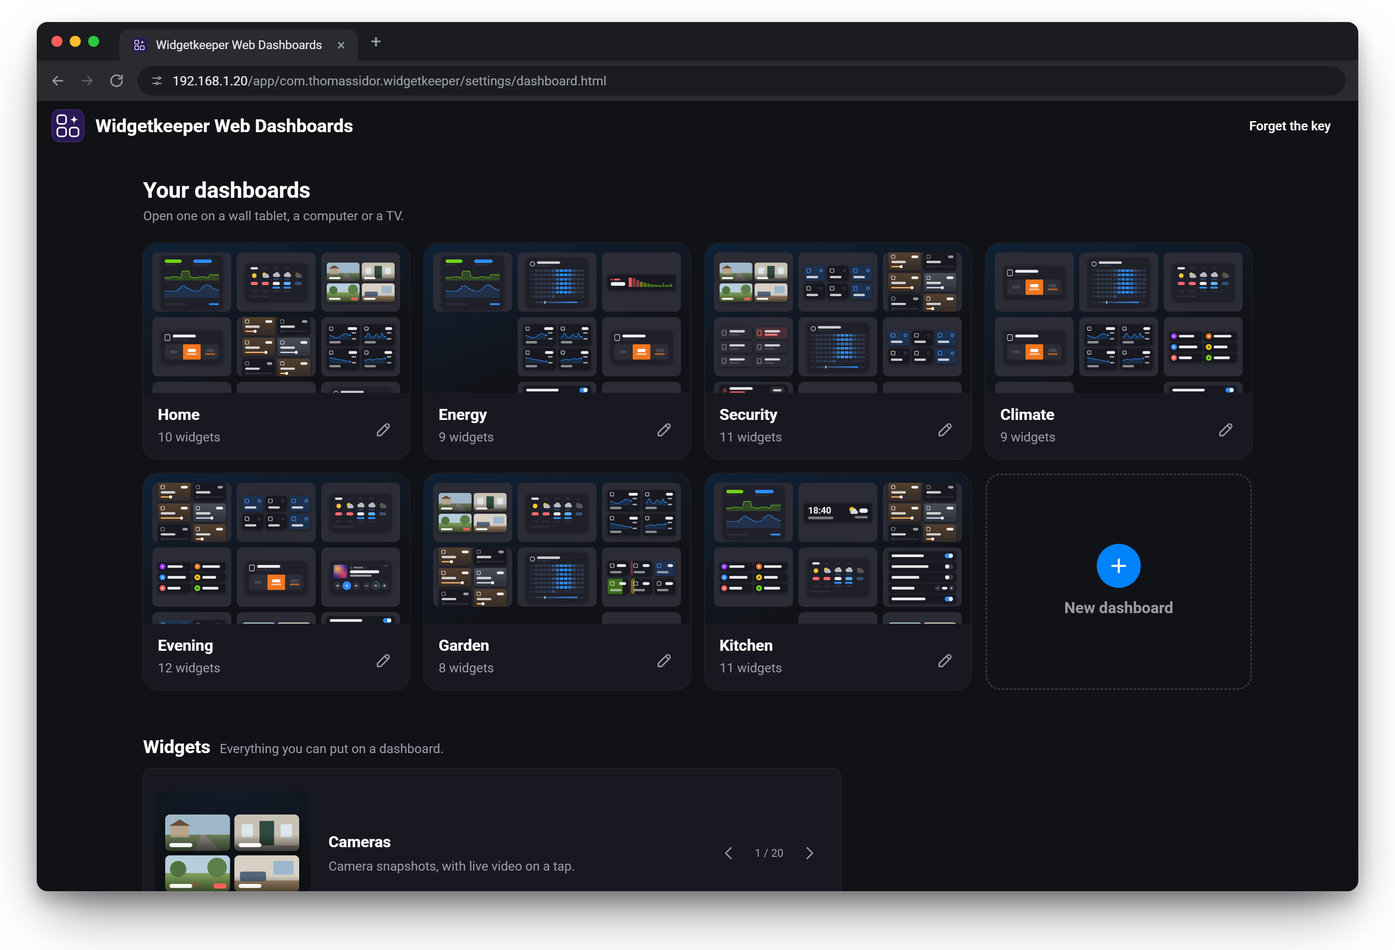
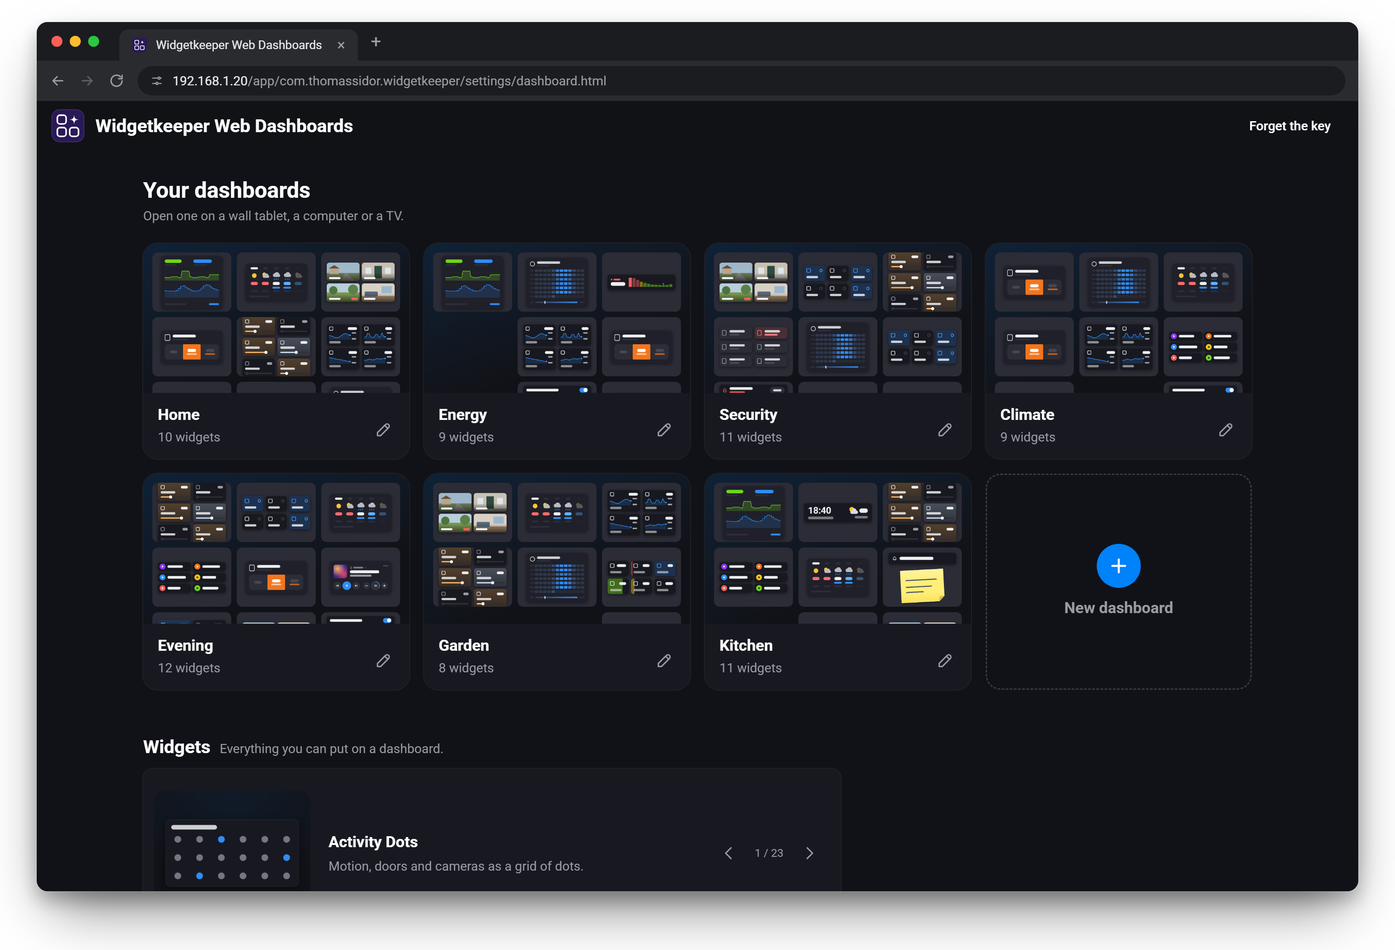
Media: Large layout with full-width album art (wk-046)
A new Layout setting: Compact (the card as before, the default) or Large,
which puts the album art square across the whole widget, with the track
at 24/32, artist and album at 17/24 and bigger buttons, pills and speaker
rows below it. Below 320 px of content the buttons go back to about the
compact sizes. Large cards in the media preview and two Large widgets on
the Media test dashboard.

Also re-rendered the web dashboard showcase images with the 1.0.0
widgets and names.

Changed region(s): [[0.0938, 0.8348, 0.2188, 0.9585], [0.25, 0.8657, 0.4062, 0.9275], [0.625, 0.5874, 0.6875, 0.6493]]

diff --git a/widgets/media/public/widget.css b/widgets/media/public/widget.css
@@ -234,6 +234,68 @@ button.mw-who.pressing { opacity: .6; }
 .mw-message { font-size: var(--mw-fs-small); line-height: var(--mw-lh-small); color: var(--mw-muted); }
 .mw-message.error { color: var(--mw-red); }
 
+/* Large (wk-046, a user's request for readability): the album art square at the full width above everything, then
+   the speaker, the track (24/32 bold), artist · album (17/24), and bigger buttons. The same parts as the compact
+   card; only the order (widget.js) and these sizes differ. */
+.mw-large {
+  --mw-fs-xlarge: var(--homey-font-size-xlarge, 24px); --mw-lh-xlarge: var(--homey-line-height-xlarge, 32px);
+  container: mw / inline-size;
+}
+.mw-large .mw-main { gap: var(--homey-su-3, 12px); }
+.mw-large .mw-art { width: 100%; height: auto; aspect-ratio: 1; }
+.mw-large .mw-art-glyph { width: 96px; height: 96px; }
+.mw-large .mw-now { align-items: flex-start; }
+.mw-large .mw-who-icon, .mw-large .mw-chevron { width: 16px; height: 16px; }
+.mw-large .mw-name { font-size: var(--mw-fs-small); line-height: var(--mw-lh-small); }
+.mw-large button.mw-who { padding: 6px 6px 6px 0; margin: -6px 0 -2px; }
+.mw-large .mw-title { font-size: var(--mw-fs-xlarge); line-height: var(--mw-lh-xlarge); }
+.mw-large .mw-sub { font-size: var(--mw-fs-default); line-height: var(--mw-lh-default); }
+.mw-large .mw-progress { height: 4px; margin-top: 10px; }
+.mw-large .mw-progress-text { margin-top: 4px; font-size: var(--mw-fs-small); line-height: var(--mw-lh-small); }
+.mw-large .mw-btn.mw-more { width: 44px; height: 44px; margin: -10px -10px 0 -4px; }
+.mw-large .mw-more .mw-glyph { width: 24px; height: 24px; }
+.mw-large .mw-controls { gap: 6px; }
+.mw-large .mw-transport, .mw-large .mw-mute { width: 52px; height: 52px; }
+.mw-large .mw-transport .mw-glyph, .mw-large .mw-mute .mw-glyph { width: 24px; height: 24px; }
+.mw-large .mw-play { width: 56px; height: 56px; }
+.mw-large .mw-play .mw-glyph { width: 28px; height: 28px; }
+.mw-large .mw-small .mw-glyph { width: 22px; height: 22px; }
+.mw-large .mw-step { width: 44px; height: 44px; }
+.mw-large .mw-step .mw-glyph { width: 20px; height: 20px; }
+.mw-large .mw-bar { height: 44px; }
+.mw-large .mw-track { top: 18px; height: 8px; border-radius: 4px; }
+.mw-large .mw-knob { top: 13px; width: 18px; height: 18px; left: calc(var(--mw-x) * (100% - 18px)); }
+.mw-large.mw-volume-buttons .mw-controls { gap: var(--homey-su, 4px); }
+.mw-large.mw-volume-buttons .mw-transport:not(.mw-play) { width: 52px; height: 52px; }
+.mw-large.mw-volume-buttons .mw-step { width: 40px; height: 40px; }
+/* The overlay's pills and the speaker list, a size up too. */
+.mw-large .mw-chip { height: 44px; padding: 0 18px; border-radius: 22px; font-size: var(--mw-fs-default); line-height: var(--mw-lh-default); }
+.mw-large .mw-chip .mw-glyph { width: 20px; height: 20px; }
+.mw-large .mw-btn.mw-close { width: 44px; height: 44px; margin: -10px -10px 0 0; }
+.mw-large .mw-close .mw-glyph { width: 24px; height: 24px; }
+.mw-large .mw-speakers-head { height: 32px; margin-top: -8px; }
+.mw-large .mw-speakers-head .mw-close { margin: 0 -10px 0 0; }
+.mw-large .mw-speakers-title { font-size: var(--mw-fs-small); line-height: var(--mw-lh-small); }
+.mw-large .mw-spk { min-height: 48px; }
+.mw-large .mw-spk-icon, .mw-large .mw-spk-check { width: 20px; height: 20px; }
+.mw-large .mw-spk-name, .mw-large .mw-spk-empty { font-size: var(--mw-fs-default); line-height: var(--mw-lh-default); }
+.mw-large .mw-spk-sub { font-size: var(--mw-fs-small); line-height: var(--mw-lh-small); }
+.mw-large .mw-message { font-size: var(--mw-fs-default); line-height: var(--mw-lh-default); }
+/* A narrow widget (300 px: 268 of content): the buttons as the compact card's, so the row still fits. */
+@container mw (max-width: 319px) {
+  .mw-large .mw-controls { gap: var(--homey-su, 4px); }
+  .mw-large .mw-transport, .mw-large .mw-mute { width: 44px; height: 44px; }
+  .mw-large .mw-transport .mw-glyph, .mw-large .mw-mute .mw-glyph { width: 22px; height: 22px; }
+  .mw-large .mw-play { width: 48px; height: 48px; }
+  .mw-large .mw-play .mw-glyph { width: 24px; height: 24px; }
+  .mw-large .mw-small { width: 32px; }
+  .mw-large .mw-small .mw-glyph { width: 20px; height: 20px; }
+  .mw-large.mw-volume-buttons .mw-controls { gap: var(--homey-su, 4px); }
+  .mw-large.mw-volume-buttons .mw-transport:not(.mw-play) { width: 40px; height: 40px; }
+  .mw-large.mw-volume-buttons .mw-play, .mw-large.mw-volume-buttons .mw-mute { width: 44px; height: 44px; }
+  .mw-large.mw-volume-buttons .mw-step { width: 36px; height: 36px; }
+}
+
 @keyframes mw-shake {
   20%, 60% { transform: translateX(-4px); }
   40%, 80% { transform: translateX(4px); }

diff --git a/dev/media-preview.html b/dev/media-preview.html
@@ -30,6 +30,13 @@
   <div class="col"><span>358 px · dark · missing speaker</span><div class="card mw-frame homey-dark-mode" style="width:358px"><div id="w5"></div></div></div>
   <div class="col"><span>358 px · dark · nothing picked</span><div class="card mw-frame homey-dark-mode" style="width:358px"><div id="w6"></div></div></div>
 
+  <div class="col"><span>Large · 358 px · dark · playing</span><div class="card mw-frame homey-dark-mode" style="width:358px"><div id="L1"></div></div></div>
+  <div class="col"><span>Large · 358 px · light · paused, volume as buttons, shuffle</span><div class="card light" style="width:358px"><div id="L2"></div></div></div>
+  <div class="col"><span>Large · 300 px · dark · TV, muted, shuffle</span><div class="card mw-frame homey-dark-mode" style="width:300px"><div id="L3"></div></div></div>
+  <div class="col"><span>Large · 300 px · light · volume as buttons, long title</span><div class="card light" style="width:300px"><div id="L4"></div></div></div>
+  <div class="col"><span>Large · 358 px · dark · ⋯ open</span><div class="card mw-frame homey-dark-mode" style="width:358px"><div id="L5"></div></div></div>
+  <div class="col"><span>Large · 358 px · dark · speaker list open</span><div class="card mw-frame homey-dark-mode" style="width:358px"><div id="L6"></div></div></div>
+  <div class="col"><span>Large · 358 px · dark · no art, nothing playing</span><div class="card mw-frame homey-dark-mode" style="width:358px"><div id="L7"></div></div></div>
   <script>
     const SOURCES = [{ id: 'card:tv', name: 'TV', icon: 'tv' }, { id: 'card:line', name: 'Line-in', icon: 'plug' }, { id: 'flow:movie', name: 'Movie night' }];
     mountMockMedia(document.getElementById('w1'), mockSpeaker('Kitchen', 0), { buttons: SOURCES, canSwitch: true, t: devT });
@@ -44,6 +51,14 @@
     mountMockMedia(document.getElementById('w13'), mockSpeaker('Kitchen', 0), { buttons: SOURCES, canSwitch: true, showProgress: false, volumeLayout: 'buttons', t: devT });
     mountMockMedia(document.getElementById('w11'), mockSpeaker('Kitchen', 0), { buttons: SOURCES, canSwitch: true, t: devT }).setSpeakers(true);
     mountMockMedia(document.getElementById('w12'), mockSpeaker('Kitchen', 0), { canSwitch: true, volumeLayout: 'buttons', t: devT }).setSpeakers(true);
+    const LARGE = { layout: 'large', t: devT };
+    mountMockMedia(document.getElementById('L1'), mockSpeaker('Kitchen', 0), { ...LARGE, buttons: SOURCES, canSwitch: true });
+    mountMockMedia(document.getElementById('L2'), mockSpeaker('Living room', 1, { playing: false }), { ...LARGE, volumeLayout: 'buttons', showShuffle: true, buttons: SOURCES, canSwitch: true });
+    mountMockMedia(document.getElementById('L3'), mockSpeaker('TV', 2, { track: 'HDMI', muted: true, volume: 0.25 }), { ...LARGE, buttons: SOURCES, showShuffle: true, maxVolume: 0.4 });
+    mountMockMedia(document.getElementById('L4'), mockSpeaker('Bedroom', 1, { track: 'A very long track name that does not fit on one line' }), { ...LARGE, volumeLayout: 'buttons', canSwitch: true });
+    mountMockMedia(document.getElementById('L5'), mockSpeaker('Kitchen', 0), { ...LARGE, buttons: SOURCES }).setPanel(true);
+    mountMockMedia(document.getElementById('L6'), mockSpeaker('Kitchen', 0), { ...LARGE, canSwitch: true }).setSpeakers(true);
+    mountMockMedia(document.getElementById('L7'), mockSpeaker('Bathroom', 0, { track: null, art: false, playing: false }), LARGE);
     createMediaWidget(document.getElementById('w5'), { t: devT }).setState({ id: 'x', missing: true });
     const empty = createMediaWidget(document.getElementById('w6'), { t: devT });
     empty.setMessage(empty.t('selectDevice'));

diff --git a/widgets/media/public/widget.js b/widgets/media/public/widget.js
@@ -6,6 +6,8 @@
  * once and a burst is sent once, so it never overshoots, and `maxVolume` caps it. On TV or line-in the card says so
  * instead of greying out: mute and the volume are what matter there. With `canSwitch`, a tap on the speaker's name
  * (its device icon, the name and a ⌄) lists every speaker, and picking one switches the card to it.
+ * `layout: 'large'` puts the album art above everything at the full width, with bigger text and buttons below it
+ * (the same parts; only their order and the CSS differ).
  * Plain browser JS (served as-is).
  */
 (function () {
@@ -229,7 +231,7 @@
    *   onArt?: () => Promise<{type: string, data: string}>,
    *   onReport?: (text: string) => void, onHaptic?: () => void, onHeight?: (h: number) => void,
    *   buttons?: {id: string, name: string, icon?: string | null}[], volumeStep?: number, maxVolume?: number, showShuffle?: boolean,
-   *   volumeLayout?: 'line' | 'buttons', showProgress?: boolean, now?: () => number,
+   *   volumeLayout?: 'line' | 'buttons', layout?: 'compact' | 'large', showProgress?: boolean, now?: () => number,
    *   canSwitch?: boolean, onListSpeakers?: () => Promise<any[]>, onSwitch?: (id: string) => void }} opts
    */
   function createMediaWidget(root, opts = {}) {
@@ -268,12 +270,16 @@
 
     root.classList.add('mw');
     root.classList.toggle('mw-volume-buttons', volumeButtons);
+    /** The album art at the full width above the rest (wk-046), instead of beside the track. */
+    const large = opts.layout === 'large';
+    root.classList.toggle('mw-large', large);
     const card = el('div', { class: 'mw-card' }, root);
     // The main view and the overlay share one grid cell, so the card is as tall as the taller of the two and
     // opening the overlay never changes the widget's height.
     const main = el('div', { class: 'mw-main' }, card);
+    const artBox = el('div', { class: 'mw-art' }, large ? main : null);
     const nowPlaying = el('div', { class: 'mw-now' }, main);
-    const artBox = el('div', { class: 'mw-art' }, nowPlaying);
+    if (!large) nowPlaying.appendChild(artBox);
     const artImg = el('div', { class: 'mw-art-img' }, artBox);
     let artGlyphName = null;
     const info = el('div', { class: 'mw-info' }, nowPlaying);

diff --git a/test/media-widget.test.ts b/test/media-widget.test.ts
@@ -399,3 +399,39 @@ describe('switching speaker', () => {
     expect(q('.mw-who .mw-who-icon').classList.contains('mw-mask')).toBe(true);
   });
 });
+
+describe('large layout', () => {
+  const buttons = [{ id: 'flow:f1', name: 'Movie time' }];
+
+  it('puts the album art above the rest, at the full width', () => {
+    const { root, q } = widget(speaker(), { layout: 'large' });
+    expect(root.classList.contains('mw-large')).toBe(true);
+    const main = q('.mw-main');
+    expect(q('.mw-art').parentElement).toBe(main);
+    expect(main.firstElementChild).toBe(q('.mw-art'));
+    expect(q('.mw-art').nextElementSibling).toBe(q('.mw-now'));
+  });
+
+  it('keeps the art beside the track in the compact card', () => {
+    const { root, q } = widget(speaker(), { layout: 'compact' });
+    expect(root.classList.contains('mw-large')).toBe(false);
+    expect(q('.mw-art').parentElement).toBe(q('.mw-now'));
+    expect(q('.mw-now').firstElementChild).toBe(q('.mw-art'));
+  });
+
+  it('switches speaker, mutes and opens the overlay as the compact card does', async () => {
+    const onSwitch = vi.fn();
+    const onListSpeakers = vi.fn(async () => [{ id: 'b', name: 'Bedroom', icon: null, caps: {} }]);
+    const { q, click, onSet } = widget(speaker(), { layout: 'large', buttons, canSwitch: true, onSwitch, onListSpeakers });
+    click('.mw-mute');
+    expect(onSet).toHaveBeenCalledWith('volume_mute', true);
+    click('.mw-more');
+    expect(q('.mw-card').classList.contains('panel-open')).toBe(true);
+    click('.mw-close');
+    expect(q('.mw-card').classList.contains('panel-open')).toBe(false);
+    click('.mw-who');
+    await vi.advanceTimersByTimeAsync(0);
+    document.querySelector<HTMLElement>('.mw-spk')!.dispatchEvent(new win.MouseEvent('click', { bubbles: true }));
+    expect(onSwitch).toHaveBeenCalledWith('b');
+  });
+});

diff --git a/widgets/media/public/mount.js b/widgets/media/public/mount.js
@@ -55,6 +55,7 @@ window.mountMediaWidget = function (Homey, { root, frame }) {
       load();
     },
     volumeLayout: settings.volumeLayout === 'buttons' ? 'buttons' : 'line',
+    layout: settings.layout === 'large' ? 'large' : 'compact',
     onSet: (capabilityId, value) => Homey.api('POST', '/set', {
       deviceId, capabilityId, value, maxVolume: maxVolume > 0 && maxVolume < 100 ? maxVolume / 100 : 1,
     }),

diff --git a/CLAUDE.md b/CLAUDE.md
@@ -366,6 +366,7 @@ How this project uses it:
   - Buttons: a switched-to speaker's `/state` is asked with `cards=1` and carries `cards` (its argument-free cards' `<card>` part, `cardSuffix()`). A card button whose `<card>` isn't there is hidden; `runButton()` matches cards by `<card>`, so `card:homey:device:<default>:cloud_play_home_theater` runs the switched-to speaker's own. Flows always show.
 - Device icon: `fetchDeviceIcon()` (sent as `icon`), drawn as a mask (`.mw-mask`, `--mw-icon`) in the name row and, while there's no album art (and no TV/line-in), in the art box; without one, a drawn speaker glyph (`device`).
 - Layout (condensed on the user's request, 2026-10-09: no volume percentage, the buttons in an overlay): the 64 px album art (or a note, TV or plug glyph), the speaker's name (12/16), the track (17 bold) and artist · album (14 muted), a progress line with `1:14 / 3:33` (12/16; Homey's `speaker_position`/`speaker_duration` are seconds, counted on locally while playing with a 1 s timer that stops while hidden; `opts.now` fixes the clock for the screenshot), and a 36 px `⋯` in the top right corner. Then previous, play (Homey's blue) and next, and mute on the right (red while muted), all 44 px; shuffle and repeat (36 px, muted, blue when on, a `1` badge for one track) only with `showShuffle`. Then − bar +.
+- `layout` (dropdown "Layout" after the speaker, `compact` by default, a missing value is compact; wk-046, a user's request for readability): `large` (`.mw-large` on the root) moves the art box out of `.mw-now` to the top of `.mw-main`, a square at the full width (`aspect-ratio: 1`, `cover`; a 96 px glyph without art), with the speaker 14/20, the track 24/32 bold, artist · album 17/24, progress time 14/20, 52 px previous/next/mute and a 56 px play (6 px gaps, so shuffle and repeat fit 326 px of content), a 44 px volume line, 44 px pills and 48 px speaker rows. Below 320 px of content (`@container mw`) the buttons go back to about the compact sizes with 4 px gaps. The same elements and logic; only the order and `widget.css`'s `.mw-large` block differ. `dev/media-preview.html` has Large cards at the end.
 - `showProgress` (checkbox "Show progress bar and time", on by default; `index.html` treats a missing value as on): off hides the progress line and its time (and stops the 1 s timer), so the now-playing row is only as tall as the 64 px art.
 - `volumeLayout` (dropdown "Volume", `line` by default; a missing value is line): `buttons` drops the volume line and puts − mute + at the right of the transport row (`.mw-volume-buttons`: 4 px gaps, 40 px previous/next, 36 px −/+, so it fits 268 px of content), with the level (to `maxVolume`) as a conic-gradient ring on mute (`.ring`, `--mw-x` on the root). Shuffle and repeat then move into the overlay as pills (no room in the row).
 - The overlay (`⋯`, shown only when it has something: buttons, or shuffle/repeat in `buttons` layout): `.mw-main` and `.mw-panel` share one grid cell in `.mw-card`, so the card is always as tall as the taller of the two and opening it never changes the widget's height (keep the pills 36 px so the panel stays shorter than the main view). `.panel-open` hides the main view and shows the pills (Variables' grey, content-sized, wrapping) with a ✕. A tap beside the pills, ✕, `⋯` again or 8 s without a touch close it; a button closes it 600 ms after its check mark, and a failure closes it before the message. `⋯` is tinted blue while a button in it is lit (the TV source). `setPanel(open)` is exposed for the previews.
@@ -432,7 +433,7 @@ How this project uses it:
 - On/off: the app setting `webDashboardsEnabled` (`WEB_ENABLED_SETTING`; off unless `true`), a checkbox on the app settings page (`Homey.set`), which shows the address only while it's on. Off, `/web/setup` answers only `{disabled: true, language, strings}` (the page says so: `web.off`) and every other `/web/…` route but `/web/address` throws `Web dashboards are turned off` (`assertEnabled()`); the saved dashboards stay. The page's `failed()` goes back to `start()` on that error.
 - Storage: the app setting `webDashboards`, `[{id, name, theme: auto|dark|light, columns: [[{id, type, title, settings, deviceIds}]]}]`. `normalize()` keeps known types, only the manifest's setting ids (each of its type, the default where missing or wrong; an autocomplete choice keeps its own fields, e.g. the thermostat's `capabilityId`/`value`, without `image`), one device for a singular devices setting; 1–6 columns, 60 widgets, 30 dashboards.
 - The front page's bar has the title `Widgetkeeper Web Dashboards` (`brand()`: `Widgetkeeper` + `web.title`, also the browser title off a dashboard) after the app icon (`.wd-logo`: the logomark of `assets/icon.svg`, inlined as `LOGO` in `currentColor`, white on the brand colour `#2A1958`, as Homey shows the app); `dashboard.html` has the same icon as an inline SVG favicon (a user's request).
-- The front page (`#/`, a user's request for something prettier): the dashboards as cards (`dashboardCard()`: a miniature of the columns, each widget as its preview cropped 4:3, at most 3 per column; the name and widget count; the whole card opens it, a pen opens the editor), a dashed New dashboard card, then the widget types one at a time in a small, quiet card (`widgetCarousel()`, max 760 px: a 170 × 136 preview cropped 5:4 on a faint blue glow, the name and `web.about.<type>`, a short description in all 13 languages (a test checks there's one per widget), ‹ › and `3 / 21`; a user found the earlier row of large previews on a blue glow took the attention from the dashboards, then that a 90 px one was too small). It cross-fades to the next every 6 s, but not while the mouse or focus is on it, for 15 s after a tap or an arrow, while the page is hidden, or with reduced motion. The descriptions also show in Add widget.
+- The front page (`#/`, a user's request for something prettier): the dashboards as cards (`dashboardCard()`: a miniature of the columns, each widget as its preview cropped 4:3, at most 3 per column; the name and widget count; the whole card opens it, a pen opens the editor), a dashed New dashboard card, then the widget types one at a time in a small, quiet card (`widgetCarousel()`, max 760 px: a 170 × 136 preview cropped 5:4 on a faint blue glow, the name and `web.about.<type>`, a short description in all 13 languages (a test checks there's one per widget), ‹ › and `3 / 23`; a user found the earlier row of large previews on a blue glow took the attention from the dashboards, then that a 90 px one was too small). It cross-fades to the next every 6 s, but not while the mouse or focus is on it, for 15 s after a tap or an arrow, while the page is hidden, or with reduced motion. The descriptions also show in Add widget.
 - The device picker (a user's request: more room, grouped by room): the settings show the chosen devices in their order (icon, name, `Ground floor › Kitchen`; the grip drags a row with pointer events, ✕ drops one) and a Choose/Change button that opens `chooseDevices()`: a tall wide dialog over the settings with a search, room chips (All rooms, Chosen, each room, with counts) and each room's devices as tiles (the icon, inverted in dark mode, and the name; a chosen tile is blue with its place in the order when several are chosen). One device: a tap picks it and closes. Several: taps tick, Select all/Clear all per room, Done keeps it, Cancel or ✕ doesn't. A widget just added with a devices setting opens the picker at once (`editWidget(id, {pickDevices: true})`).
 - The device value picker (a user's request: the slots' search list was a long flat `Device · Capability` list): Device Values' and Sparklines' `slotN` settings (`picker: 'capability'` in `widgetTypes()`, from `CAPABILITY_SLOTS` in `lib/WebDashboardService.ts`, with the same capability filters as their autocompletes: `valueCaps`, `sparkCaps`) show the chosen value as a row (the device's icon, the value's title over the device and room, its reading; a tap changes it, ✕ empties the tile) or a Choose a value button. `chooseValue()` is the device picker's dialog: rooms as chips, each room's devices as tiles (with their values' names); a tile opens that device's values as rows with their current readings (`formatReading()`), a tap picks one. With a search it lists the matching values straight away (all of a device whose name or room matches, else those whose title does). It opens at the current choice's device. The data is `GET /web/values?type=` (`valueDevices()`: `WebDevice` + `caps: [{id, title, type, units, decimals, min, max, values, value}]`, devices without a value left out), shared by the slots for 30 s. A choice is stored as the autocomplete's item (`{id: '<deviceId>:<capabilityId>', name: 'Device · Title', description}`), so the widgets and Homey's own settings read it unchanged. Other autocompletes keep the search list.
 - `dev/web-preview.html` (serve the repo root): the page with a simulated app API, made-up dashboards and a made-up house of zones and devices (library icons that exist: `light-bulb`, `plug`, `socket`, `lock`, `door` …; many names 403). `?lang=`. The widget frames stay empty; the colour scheme follows the browser (Homey's stylesheet isn't there, so `.homey-dark-mode` has its own text fallbacks).

diff --git a/README.md b/README.md
@@ -235,9 +235,9 @@ Curtains and blinds as tiles: tap to open or close (the corner label says which)
 ## Media
 <img src="docs/clips/media.webp" alt="Media on a Homey dashboard: the volume turned up, the next track, mute, the TV as the source from behind ⋯, and a switch to another speaker" width="358">
 
-One speaker as a card: album art, the track, play controls, mute, and a volume that moves on every tap but never overshoots or passes your maximum. Shows TV and line-in instead of old album art. Tap the name to switch speaker. Up to four buttons behind ⋯ run the speaker's own actions (such as *Set source to TV*) or flows; they need an [API key](#api-key).
+One speaker as a card: album art, the track, play controls, mute, and a volume that moves on every tap but never overshoots or passes your maximum. Shows TV and line-in instead of old album art. Tap the name to switch speaker. Up to four buttons behind ⋯ run the speaker's own actions (such as *Set source to TV*) or flows; they need an [API key](#api-key). A large layout puts the album art across the whole widget, with bigger text and buttons below it.
 
-**Settings:** speaker, speaker switching, volume as a bar or buttons, volume step and maximum, progress, shuffle and repeat, four buttons with an icon and a name.
+**Settings:** layout (compact or large), speaker, speaker switching, volume as a bar or buttons, volume step and maximum, progress, shuffle and repeat, four buttons with an icon and a name.
 
 ## Smart Stack
 <img src="docs/clips/stack.webp" width="382" alt="A Smart Stack on a Homey dashboard: it turns through four widgets, is swiped by hand, and brings the cameras forward when someone is at the door">

diff --git a/CHANGELOG.md b/CHANGELOG.md
@@ -32,6 +32,9 @@ All notable changes to Widgetkeeper. The version numbers match the Homey app ver
 
 ### Sparklines and Device Values
 - Every battery tile shows the same battery icon. Some devices brought their own, so tiles side by side looked different.
+### Media
+- A large layout: the album art across the whole widget, with the track, the artist and the buttons below it in bigger text and sizes. A user asked for it to read the widget more easily. Pick it with the new *Layout* setting; the compact card stays the default.
+
 ### Variables
 - Set a lowest and highest number for the number variables: − and + stop there, and a typed number is kept within them. A user asked for 0 to 1 in steps of 0.05, for a percentage kept in a variable.
 - Read only: the rows show each variable's name and value, with a dot and Yes/No instead of a switch, and nothing to tap. No API key is needed. A user wanted the rows for information only.
